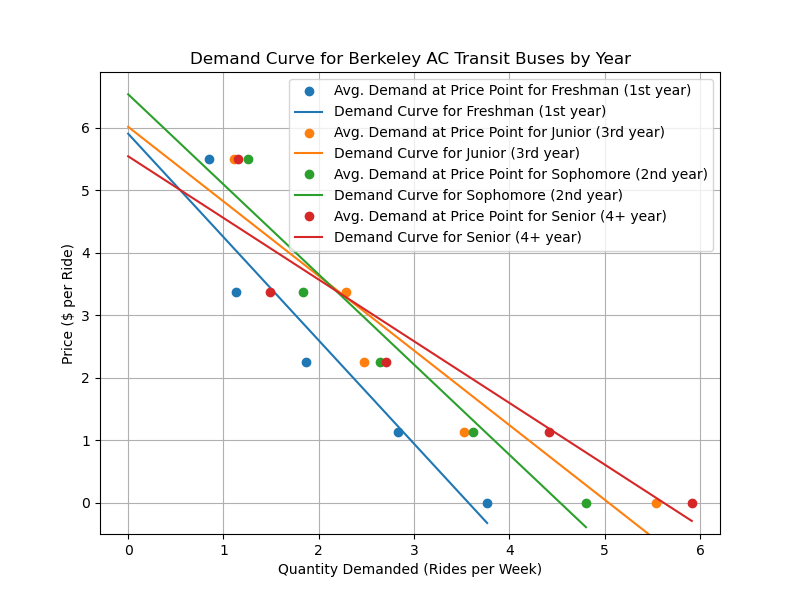
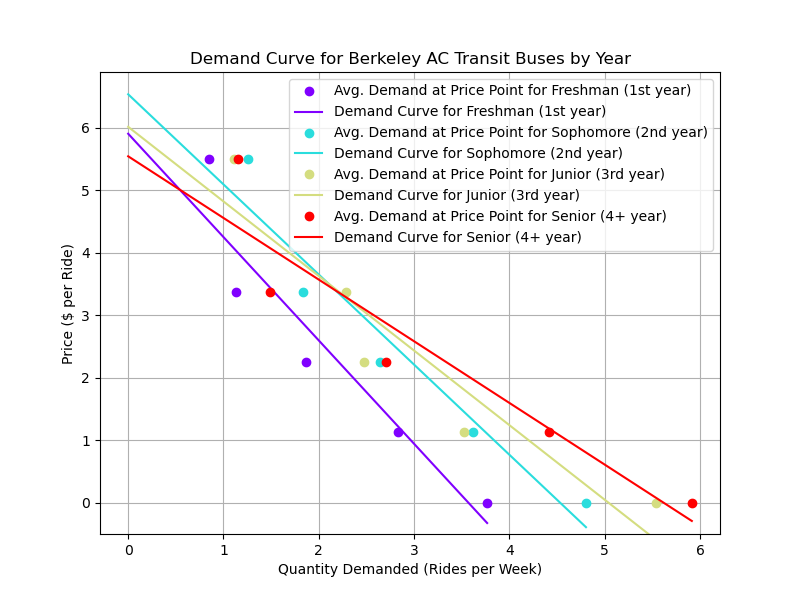
updated figures and code

diff --git a/Code/multiple_lr_demand_model.py b/Code/multiple_lr_demand_model.py
@@ -2,6 +2,7 @@ import pandas as pd
 import numpy as np
 import matplotlib.pyplot as plt
 import matplotlib.colors as mcolors
+import re
 
 from sklearn.linear_model import LinearRegression
 
@@ -17,15 +18,28 @@ price_points = {
     'double': 5.50
 }
 
+def extract_number(s):
+  """Extracts the numerical part of a string."""
+  match = re.search(r'\d+', str(s))  # Find the first occurrence of digits
+  if match:
+    return int(match.group(0))  # Convert the matched digits to an integer
+  else:
+    return s  # Handle strings without numbers (or assign a default value)
+
 # Get average demands and corresponding prices from the updated CSV based on filter arguments
 def priceDemandByFilter(trueData, filter_col):
     filter_col_values = list(trueData[filter_col].unique())
+    filter_col_values.sort(key=extract_number)
+    
+    # for clipper card values only, get rid of outlier terms
+    if filter_col == 'Clipper Card Value ':
+        filter_col_values = filter_col_values[:-2]
+        
     for val in filter_col_values:
         print(val)
     
     plt.figure(figsize=(8,6))
-    color_list = list(mcolors.TABLEAU_COLORS.values())
-    colors = iter(color_list)
+    colors = iter(plt.cm.rainbow(np.linspace(0, 1, len(filter_col_values))))
     
     for filter_col_value in filter_col_values:
         data = trueData[trueData[filter_col] == filter_col_value]
@@ -66,9 +80,16 @@ def priceDemandByFilter(trueData, filter_col):
     plt.grid(True)
     
     filter_name = filter_col.lower().replace(" ", "_")
+    
+    # for clipper card filter_col name
+    filter_name = filter_name.replace(" ", "")
+    
     if (filter_name[-1] == "_"):
         filter_name = filter_name[:-1]
-    plt.savefig(f'Figures/multiple_lr/by_{filter_name}.png')
+        
+    # should show fig and manually save for a few cases where it's hard to see the lines (housing, clipper card value)
+    plt.show()
+    # plt.savefig(f'Figures/multiple_lr/by_{filter_name}.png')
     plt.close()
     
 priceDemandByFilter(data, 'Year')
